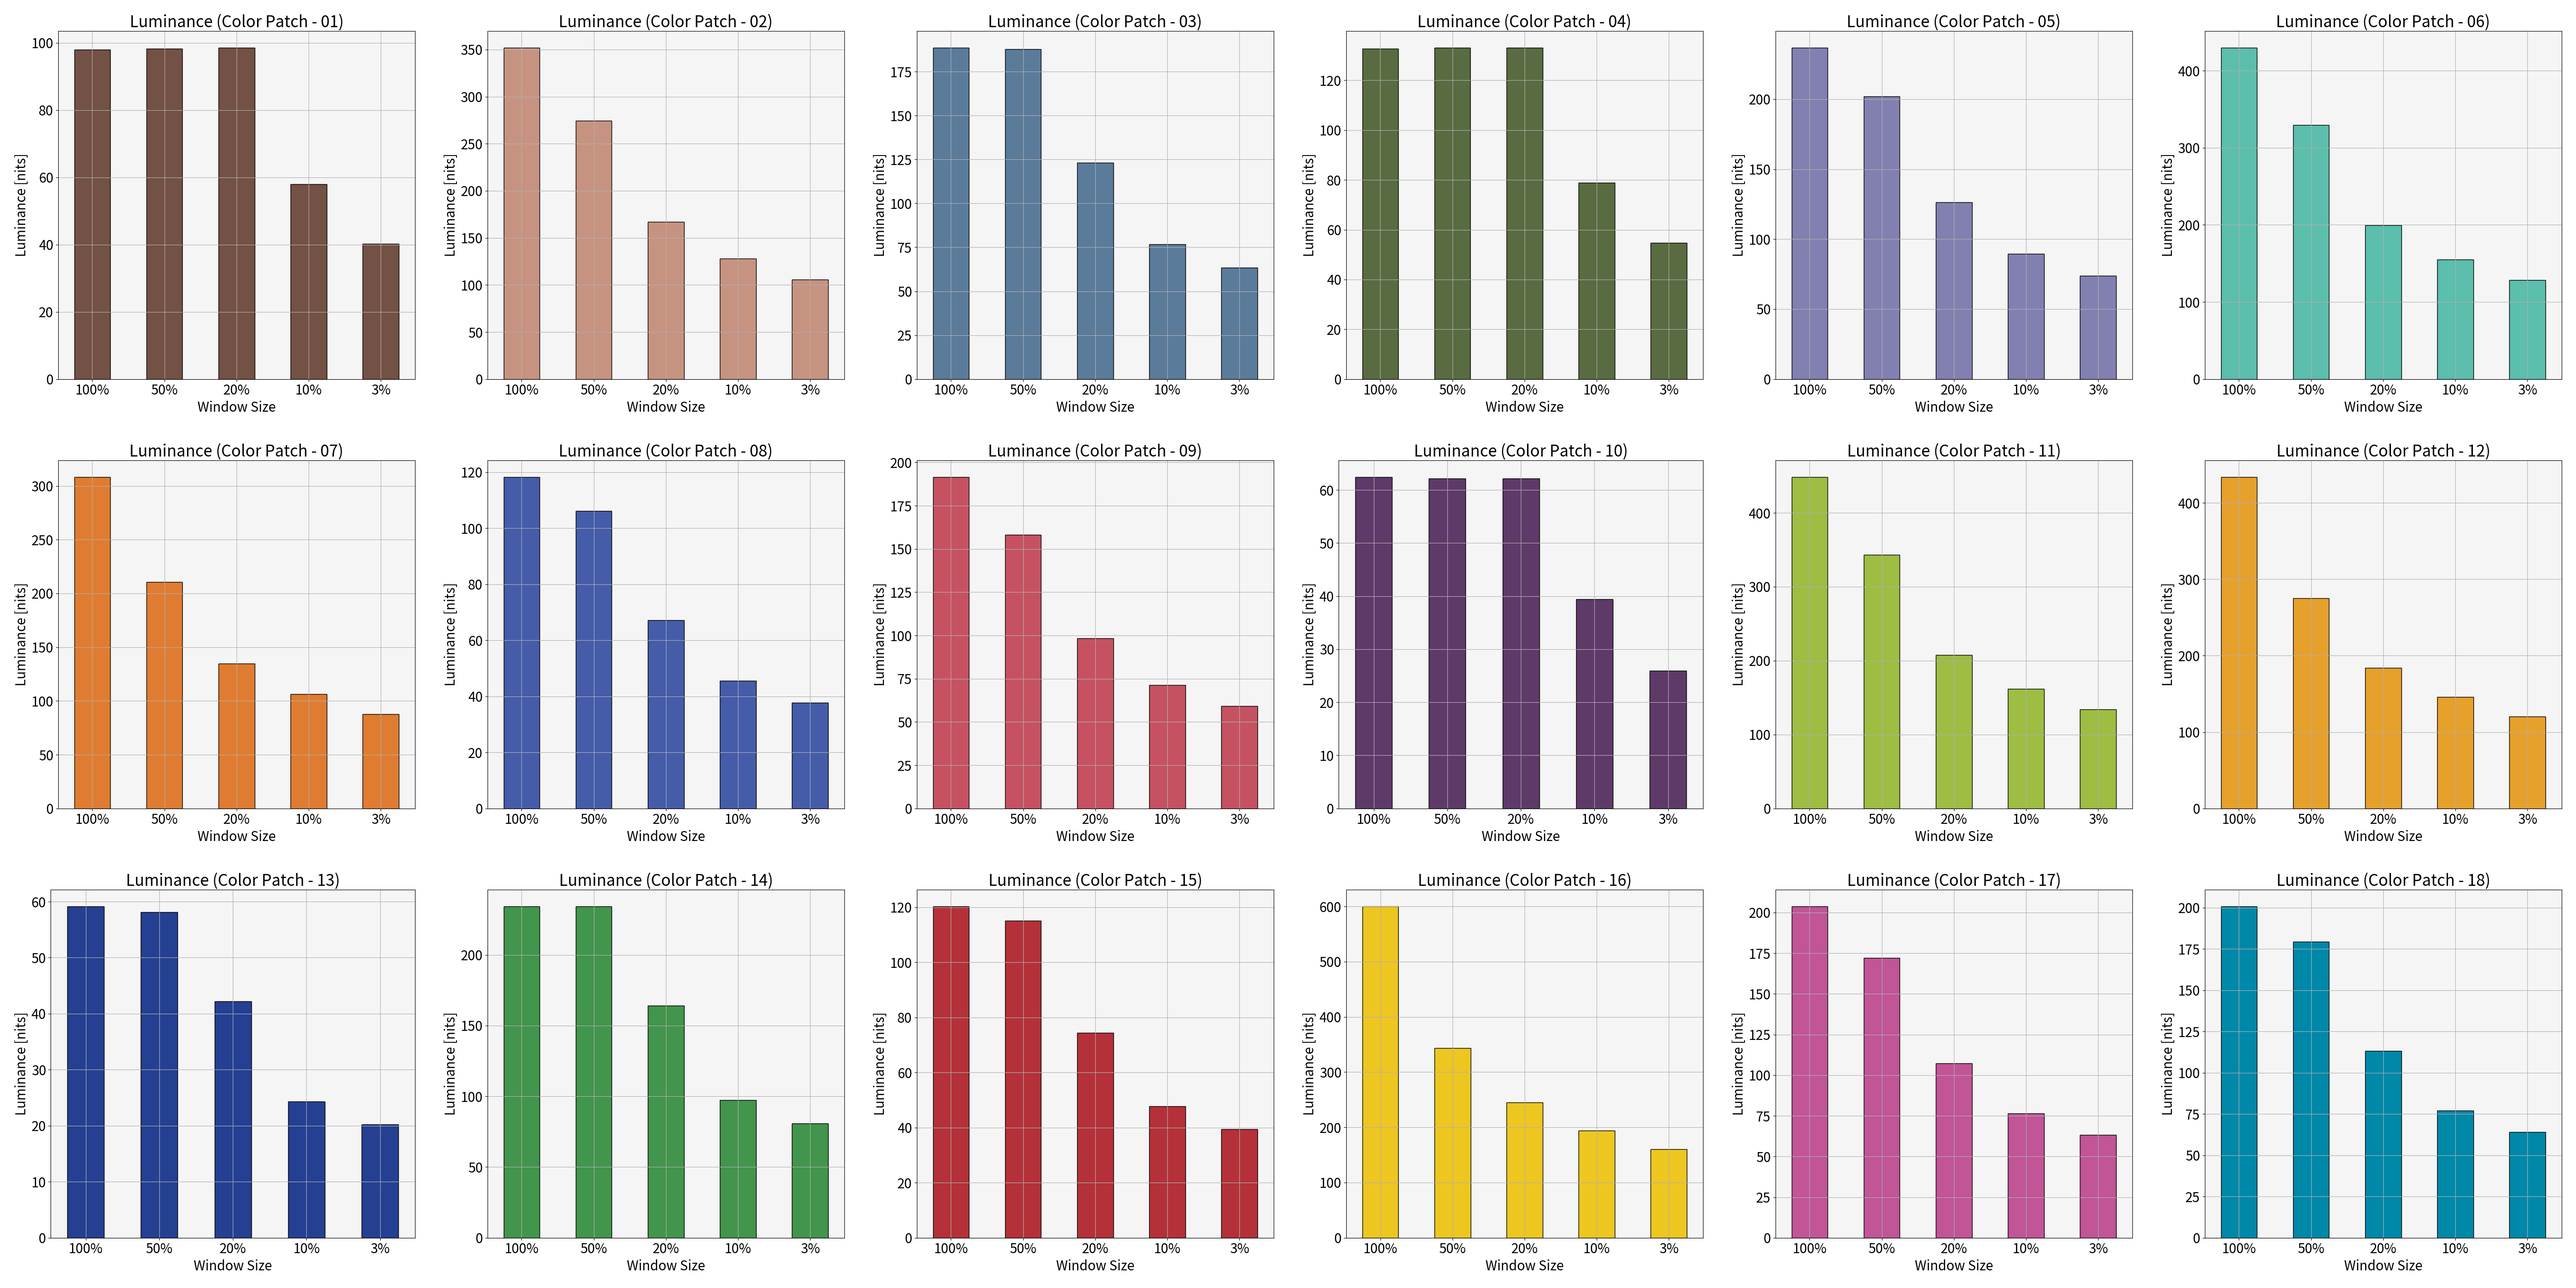
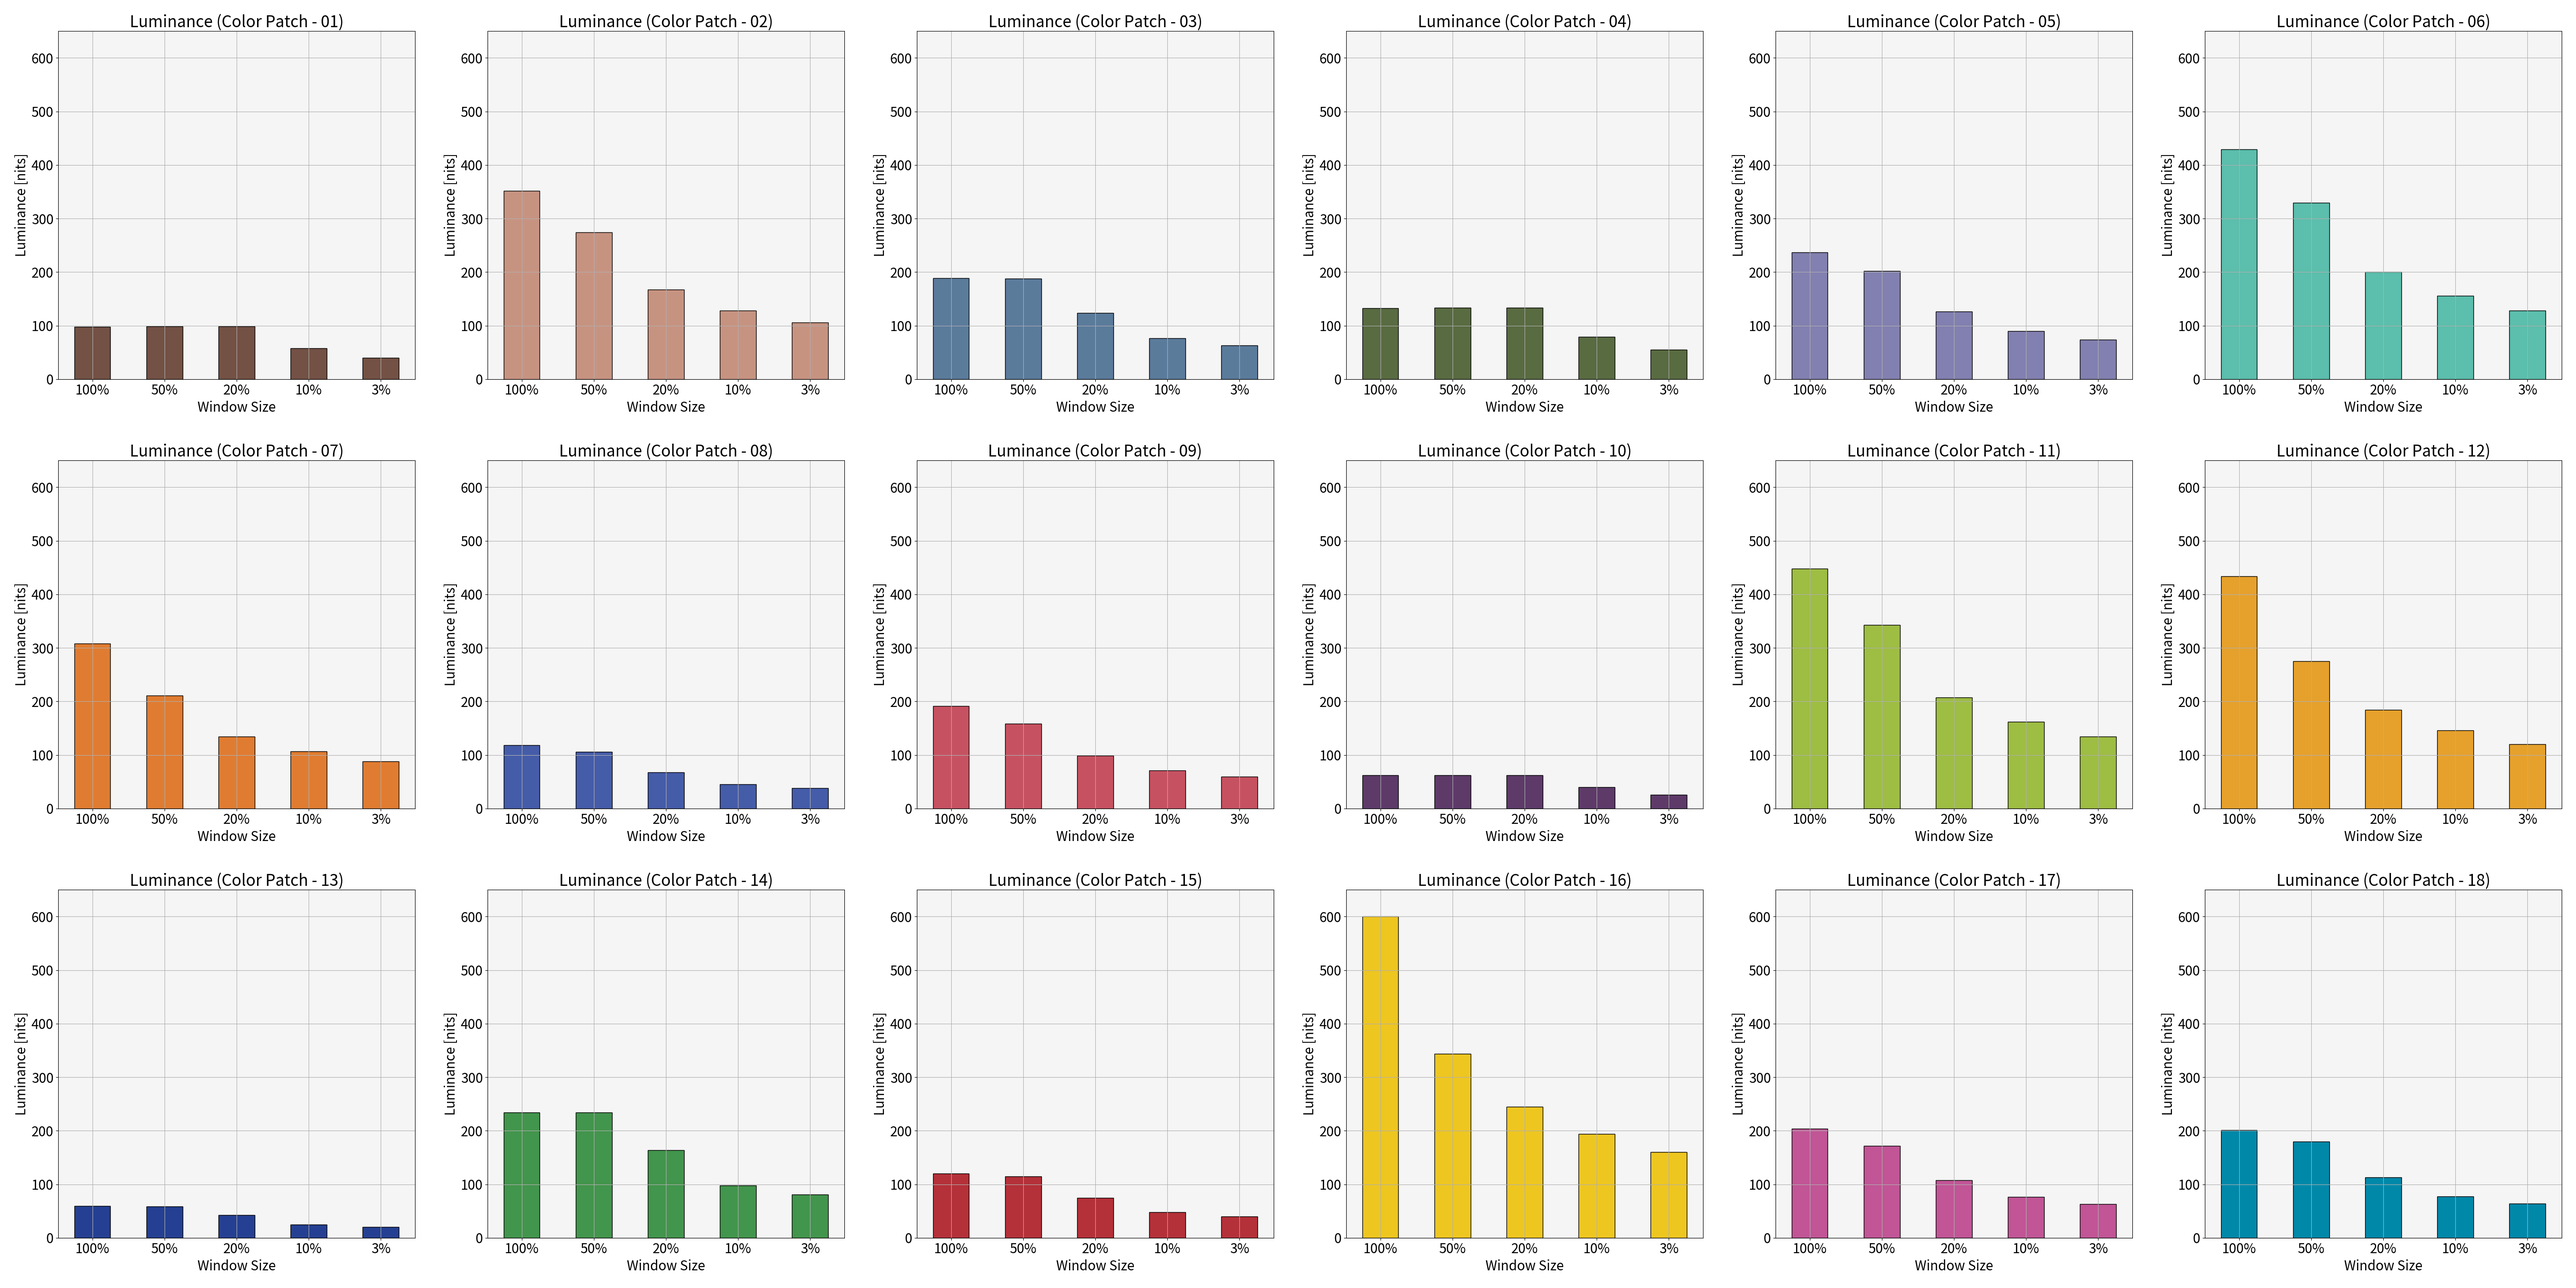
#232 measure white

diff --git a/2024/03_Measure_Moitor_Spec_with_Resolve/measure_pq_oled.py b/2024/03_Measure_Moitor_Spec_with_Resolve/measure_pq_oled.py
@@ -15,7 +15,8 @@ import matplotlib.pyplot as plt
 
 # import my libraries
 import plot_utility as pu
-from ty_display_pro_hl import read_xyz
+from ty_display_pro_hl import read_xyz, read_xyz_and_save_to_csv_file
+from ty_utility import search_specific_extension_files
 
 matplotlib.use('TkAgg')
 
@@ -166,3 +167,11 @@ if __name__ == '__main__':
     os.chdir(os.path.dirname(os.path.abspath(__file__)))
     # analyze_ccss_file_all()
     # plot_aw3225qf_spectrum()
+
+    ccss_file_list = search_specific_extension_files(
+        dir="./ccss", ext=".ccss")
+    for ccss_file in ccss_file_list:
+        print(ccss_file)
+        read_xyz_and_save_to_csv_file(
+            result_fname="./AW3225QF/white_ccss_diff.csv",
+            ccss_file=ccss_file)

diff --git a/2024/03_Measure_Moitor_Spec_with_Resolve/plot_measure_result.py b/2024/03_Measure_Moitor_Spec_with_Resolve/plot_measure_result.py
@@ -330,7 +330,7 @@ def plot_color_checker_Y_with_over_apl_core(
         axis_label_size=None,
         legend_size=17,
         xlim=None,
-        ylim=None,
+        ylim=[0, 650],
         xtick_size=None, ytick_size=None,
         linewidth=2,
         minor_xtick_num=None,
